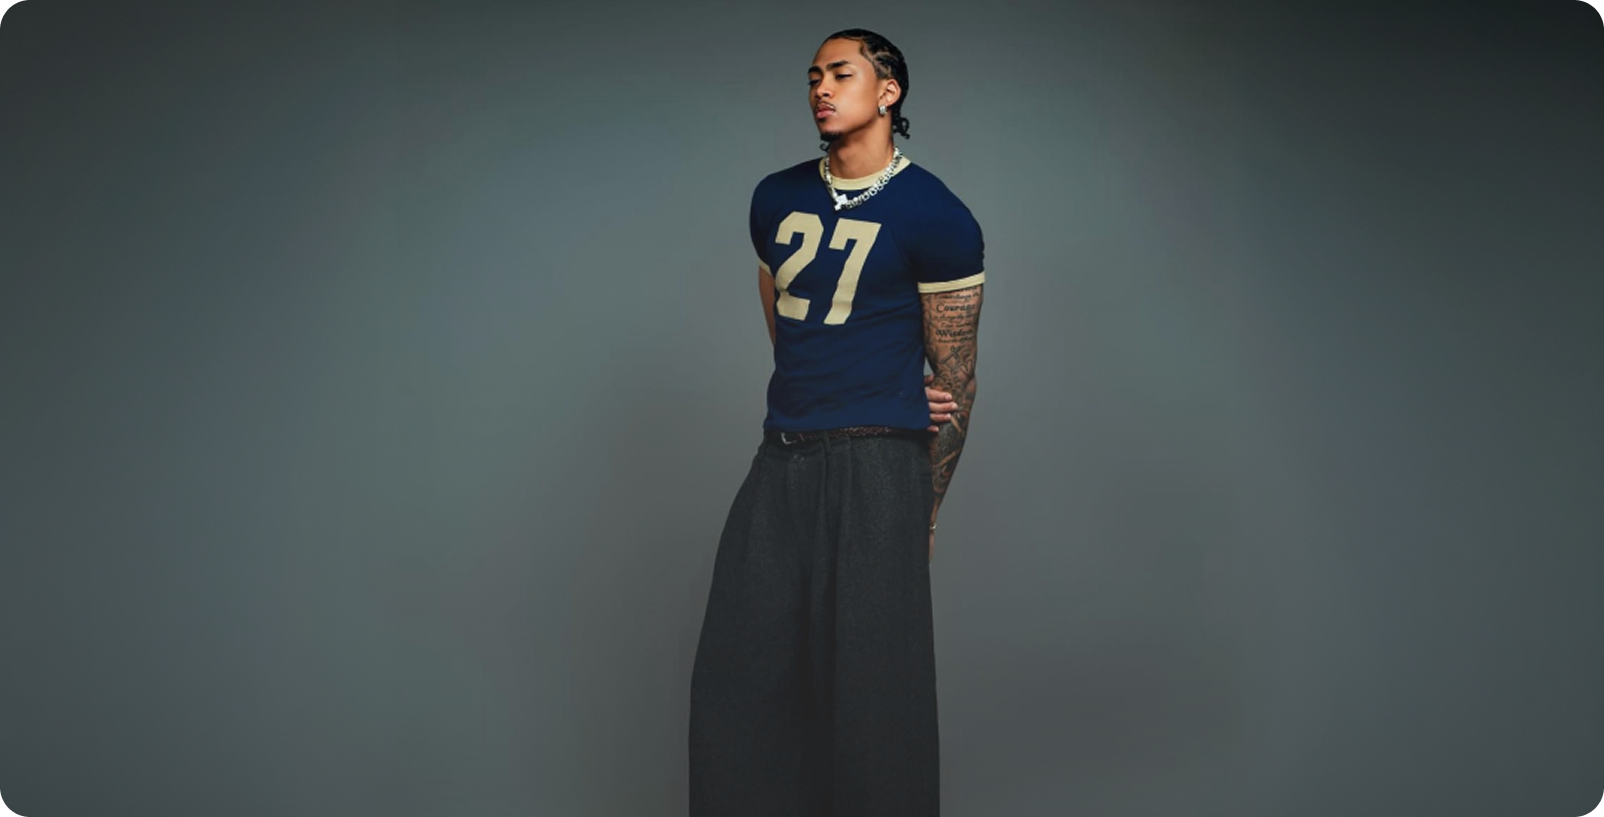
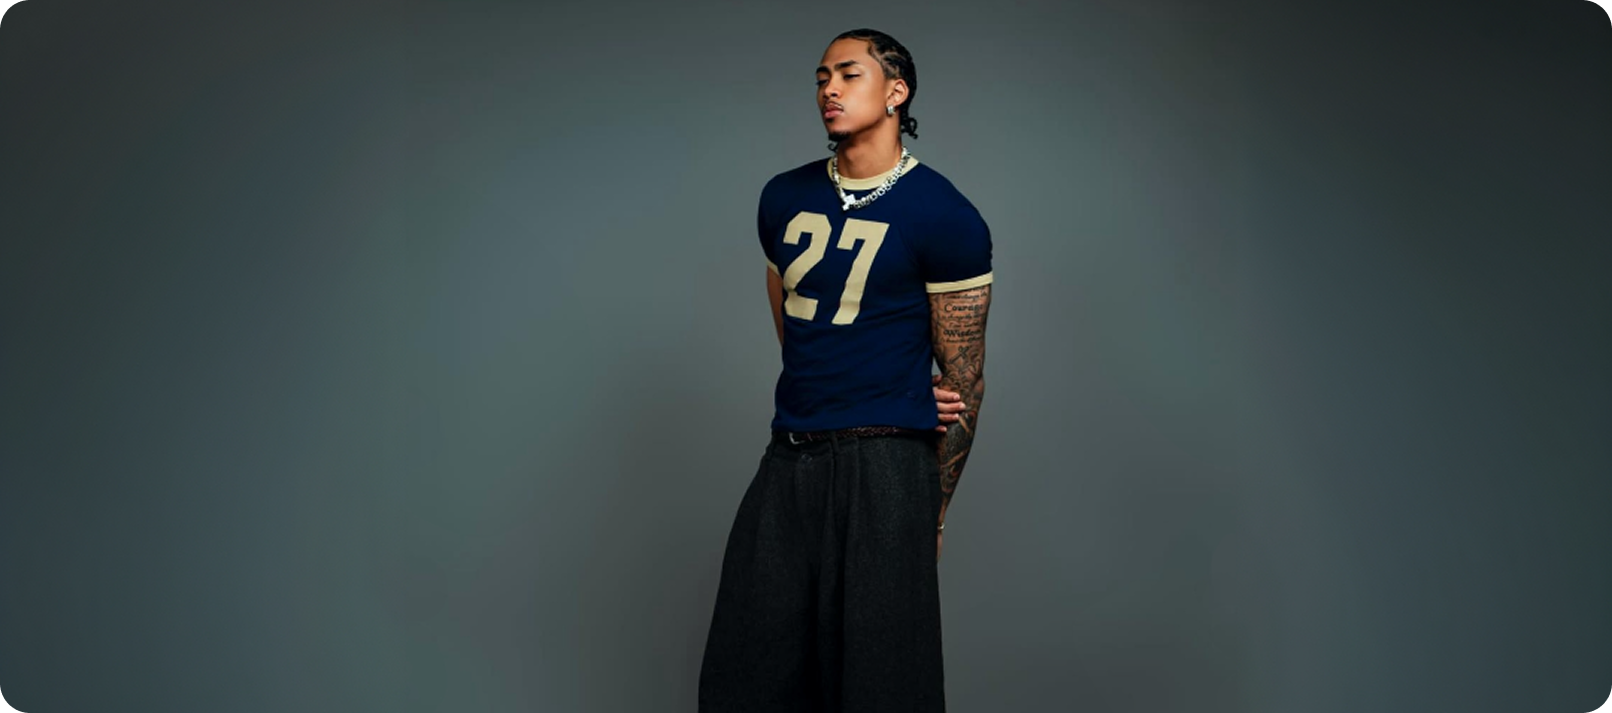
tendencias

diff --git a/src/styles/tendencias.css b/src/styles/tendencias.css
@@ -31,6 +31,7 @@ button {
     font-style: normal;
     font-weight: 400;
     line-height: normal;
+    width: fit-content;
 }
 
 #text-1, #data-1, .banner-sec button, .banner-terc button, #data-2, #text-2, #text-3, #uno p {
@@ -138,14 +139,16 @@ main {
 /* --- SEÇÃO 1: BANNER E DESTAQUES COM GRID --- */
 .primeiro {
     width: 100%;
-    position: relative;
-    /* Remove margin-top fixo, usa padding/margin mais suave */
-    padding-top: clamp(2rem, 5vw, 5rem); 
+    margin-top: clamp(2rem, 5vw, 5rem); 
+    display: flex;
+    flex-direction: column;
+    align-items: center;
+    gap: clamp(2rem, 4vw, 4rem);
 }
 
 .banner-principal {
     background-image: url('/images/tendencias/img-principal3.png');
-    background-size: cover;
+    background-size: contain;
     background-position: center;
     background-repeat: no-repeat;
     height: clamp(20rem, 40vw, 45rem); 
@@ -153,10 +156,9 @@ main {
     display: flex;
     flex-direction: column;
     justify-content: center;
-    padding-left: clamp(1.5rem, 5vw, 6rem);
-    padding-right: clamp(1.5rem, 5vw, 6rem);
-    /* NOVO: Ajusta o espaçamento abaixo para o efeito visual de sobreposição */
-    margin-bottom: clamp(-5rem, -10vw, -12rem);
+    align-self: center;
+    padding: clamp(1rem, 2vw, 2rem);
+    padding-left: clamp(10rem, 12vw, 12rem);
 }
 
 #tit-1 {
@@ -175,14 +177,11 @@ main {
 /* GRID DE SOBREPOSIÇÃO */
 .primeiro-overlap-group {
     display: grid;
-    /* Três colunas com proporções variadas */
-    grid-template-columns: 1.2fr 0.8fr 1fr; 
+    grid-template-columns: 1.4fr 0.8fr 1.4fr; 
     gap: clamp(1rem, 2vw, 2rem);
-    width: 90vw; /* Largura para ocupar a área central */
+    width: 90vw;
     max-width: 1280px;
     margin: 0 auto;
-    /* Remove transform: translateY */
-    padding-top: clamp(5rem, 10vw, 12rem); 
 }
 
 .banner-sec-link, .banner-terc-link {
@@ -196,7 +195,7 @@ main {
     background-size: cover;
     background-position: center;
     width: 100%;
-    height: clamp(15rem, 30vw, 35rem); 
+    height: clamp(20rem, 38vw, 42rem); 
     position: relative; 
     padding: clamp(1rem, 1.5vw, 1.5rem);
     display: flex;
@@ -241,6 +240,7 @@ main {
 .meio p {
     color: #000;
     text-align: center;
+    font-family: "PLAYFUL RUNWAY";
     font-size: clamp(1.8rem, 3vw, 2.8rem);
     margin-bottom: clamp(1rem, 2vw, 2rem);
 }
@@ -268,7 +268,7 @@ main {
     background-repeat: no-repeat;
     position: relative;
     width: 100%;
-    height: clamp(10rem, 17vw, 20rem); 
+    height: clamp(20rem, 38vw, 42rem); 
     background-size: cover;
     background-position: center;
     padding: clamp(1rem, 1.5vw, 1.5rem);
@@ -911,34 +911,41 @@ main {
 /* --- RESPONSIVIDADE (Ajustes de Grid e Fontes) --- */
 
 @media (max-width: 1024px) {
-    /* TABLET: Coluna 3 do overlap (Meio) fica abaixo */
+    .banner-principal {
+        height: clamp(25rem, 50vw, 55rem);
+        margin-bottom: clamp(-8rem, -15vw, -18rem);
+    }
     .primeiro-overlap-group {
-        grid-template-columns: 1fr 1fr;
-        grid-template-rows: auto auto; /* Permite que o novo elemento se acomode */
+        grid-template-columns: 1.3fr 0.7fr 1.3fr;
+        grid-template-rows: auto auto;
         width: 90vw;
         max-width: none;
+        gap: clamp(1.5rem, 3vw, 3rem);
     }
     .meio {
-        grid-column: 1 / span 2; /* Ocupa as duas colunas */
-        order: 3; /* Coloca no final */
+        grid-column: 1 / span 3;
+        order: 3;
+    }
+    .meio p {
+        font-family: "PLAYFUL RUNWAY";
     }
     .banner-sec {
-        height: 35vw;
+        height: 40vw;
     }
     .banner-terc {
-        height: 20vw;
+        height: 40vw;
     }
     .segundo {
         width: 90vw;
     }
     .produtss {
-        grid-template-columns: 1fr 1fr; /* 2 colunas no tablet */
+        grid-template-columns: 1fr 1fr;
     }
     .produt1, .produt2, .produt3 {
         height: 30vw;
     }
     .produt3 {
-        grid-column: 1 / span 2; /* Produto 3 centralizado */
+        grid-column: 1 / span 2;
         width: 60%;
         justify-self: center;
     }
